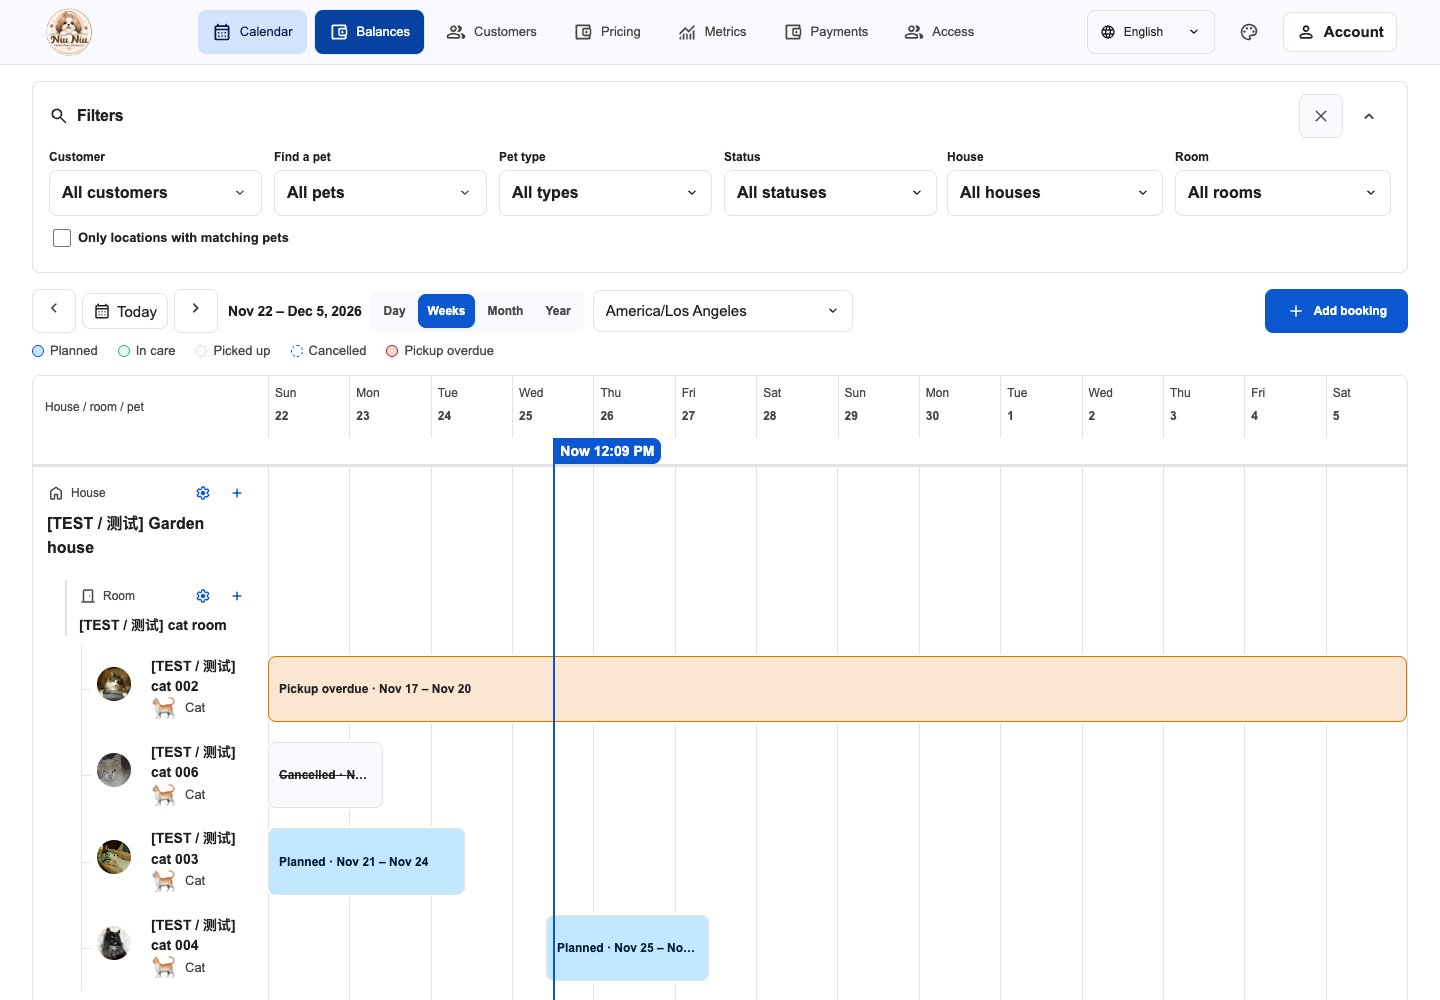
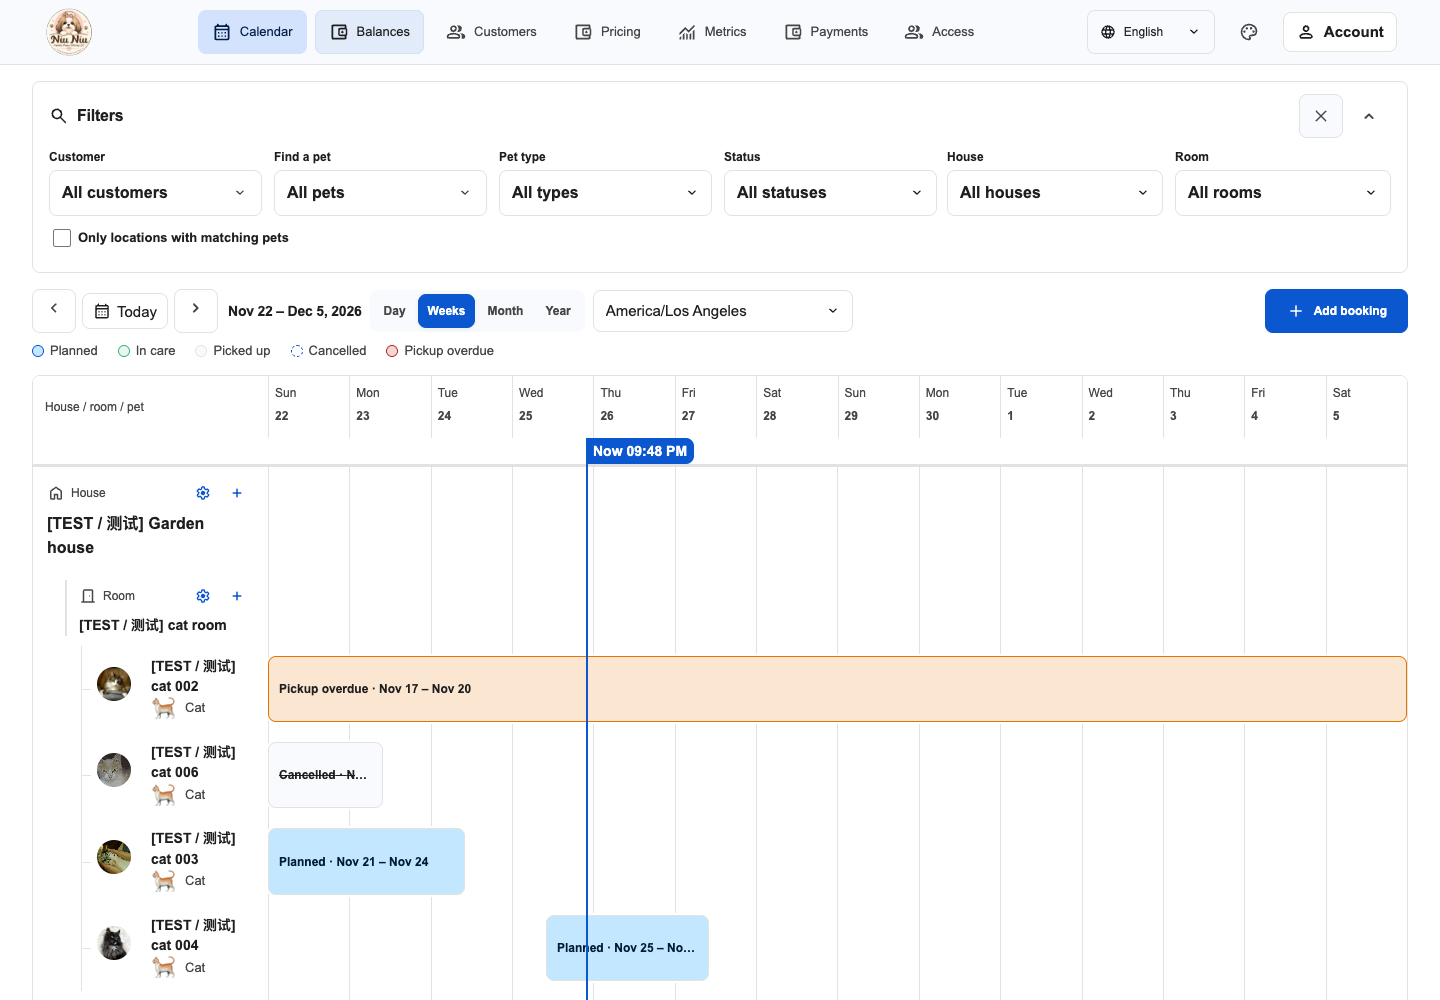
Use lighter hover only on inactive navbar tabs (#214)

Changed region(s): [[0.2188, 0.0, 0.3125, 0.062], [0.375, 0.434, 0.5, 0.465]]

diff --git a/tests/backend-browser/control-polish.spec.ts b/tests/backend-browser/control-polish.spec.ts
@@ -50,6 +50,18 @@ for (const [palette, language, width] of [
     await navLink.focus();
     await expect(navLink).toHaveCSS('outline-style', 'solid');
     await page.mouse.move(0, 0);
+    const activeNav = page.locator('.app-header-nav a[aria-current="page"]');
+    const selectedNavStyle = await activeNav.evaluate((node) => {
+      const style = getComputedStyle(node);
+      return [style.backgroundColor, style.color, style.boxShadow];
+    });
+    await activeNav.hover();
+    expect(
+      await activeNav.evaluate((node) => {
+        const style = getComputedStyle(node);
+        return [style.backgroundColor, style.color, style.boxShadow];
+      }),
+    ).toEqual(selectedNavStyle);
     await trigger.click();
     const selected = page.locator('.language-menu-options [aria-checked="true"]');
     const colors = await selected.evaluate((node) => {

diff --git a/apps/web/src/theme-components.css b/apps/web/src/theme-components.css
@@ -401,10 +401,13 @@ html[data-ui-style] .marketing-header .app-header-nav a {
   color: var(--md-on-surface-variant);
   border-radius: var(--ui-nav-radius);
 }
-html[data-ui-style] .marketing-header .app-header-nav a[href]:is(:hover, :focus-visible) {
-  background: var(--md-primary-hover);
-  color: var(--md-on-primary);
-  box-shadow: 0 0 0 2px var(--md-primary-container);
+html[data-ui-style]
+  .marketing-header
+  .app-header-nav
+  a[href]:not([aria-current='page']):is(:hover, :focus-visible) {
+  background: color-mix(in srgb, var(--md-primary) 12%, var(--md-surface));
+  color: var(--md-on-surface);
+  box-shadow: inset 0 0 0 1px color-mix(in srgb, var(--md-primary) 40%, var(--md-surface));
 }
 html[data-ui-style] .marketing-header .app-header-nav a:focus-visible {
   outline: 2px solid var(--md-focus);

diff --git a/docs/session-handoff.md b/docs/session-handoff.md
@@ -1,3 +1,15 @@
+## Lighter hover for inactive navbar tabs — 2026-11-25
+
+Owner found solid navbar hover too dark and requested no hover styling on the selected tab. Inactive links now use a 12% primary/surface tint, normal surface text and a thin inset outline. Current-page links retain their selected fill/text/shadow when hovered; keyboard focus retains its separate visible outline. Local Chrome desktop/phone walkthrough covered all four palettes; focused control regression now asserts unchanged current-tab background/text/shadow on hover. Build, formatting and whitespace checks pass. Deliver as a focused signed follow-up PR, respect CI/signatures and verify the automatic exact-commit release. Prior corner/filter release evidence below is preserved.
+
+## Corner, booking filter and navbar update delivered — 2026-11-25
+
+[Stack #213](https://github.com/Fifiloveniuniu/niu-niu-family-paws/stack/213) atomically merged [PR #211](https://github.com/Fifiloveniuniu/niu-niu-family-paws/pull/211) (shared small corners, persistent record/calendar frames, booking layout/Choose alignment, square-left Now and stronger navbar hover) and [PR #212](https://github.com/Fifiloveniuniu/niu-niu-family-paws/pull/212) (default-on themed Hide unavailable rooms checkbox in the booking calendar control row). Merge commits are `e465914` and `2f1c0a3`; authored commits `edb5f92` and `2a20eea` and both merge commits have valid GitHub-verified signatures. Both PR CI builds passed. Main [release run 45693762000](https://github.com/Fifiloveniuniu/niu-niu-family-paws/actions/runs/45693762000) succeeded including automatic deployment. No settings/protection bypass; owner explicitly requested delivery now and navbar hover during submission.
+
+`node scripts/verify-release.mjs 2f1c0a3a14677a19e1ab925b0bb94bf1622888e4` passed the exact hosted manifest, public pages, API health/pricing and unauthenticated private-API denial checks. Fresh headless Chrome passed 30 live EN/zh/es desktop/phone public and signed-out app entry checks, confirming the 8px shared token, no JavaScript errors and no horizontal overflow. Protected features were validated locally; no production business writes. Local main is fast-forwarded and its tree exactly matches the validated final stack. The final source passed Node 24 build, all 101 unit tests, API typecheck and formatting; all 123 browser scenarios are covered by the full run and passing focused rechecks (final 18-case booking/workflow/localization recheck passed). Review captures are in `docs/review/corners-2026-11-25/`.
+
+This delivery note is the only local uncommitted change. Earlier pending/local-only notes below are historical and superseded by this verified release. Preserve default localhost demo/emulator sessions. The booking filter is on by default, uses requested-stay availability, hides empty houses, retains selected available rooms and can be unchecked; no business/financial rules changed. Navbar hover now uses a solid primary color and contrasting text across themes.
+
 ## Final corner/filter validation — 2026-11-25
 
 All 123 current headless Chrome scenarios are covered by the full regression plus focused rechecks. The initial full run passed 107; failures were obsolete radius/scrolling/default-filter assertions. Updated those expectations and added default-filter keyboard/selection/house-removal checks, persistent frame checks and main Now corner checks. The 34-case focused run validated appearance/navigation/rounded tables and exposed short-content scroll-limit assumptions plus an asynchronous axis assertion; corrected boundary comparisons and polling. Final 18-case booking/workflow/localization recheck passes. Node 24 production build, all 101 unit tests, API typecheck, repository formatting and whitespace checks pass. Actual localhost default-demo walkthroughs and screenshots cover the requested changes without production writes.
